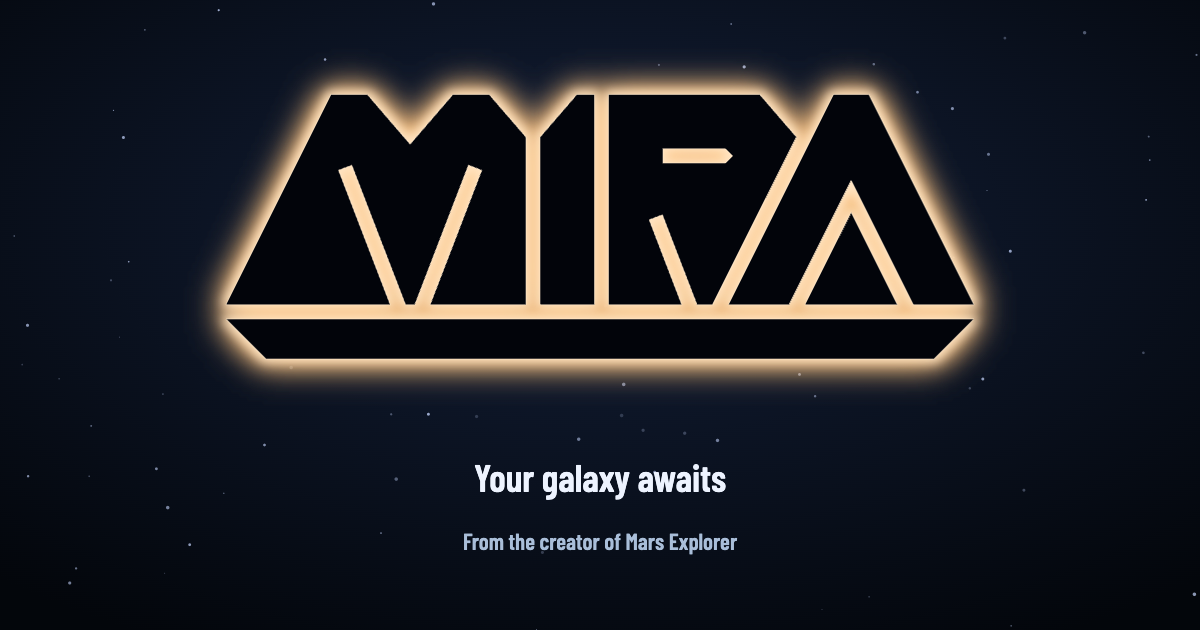
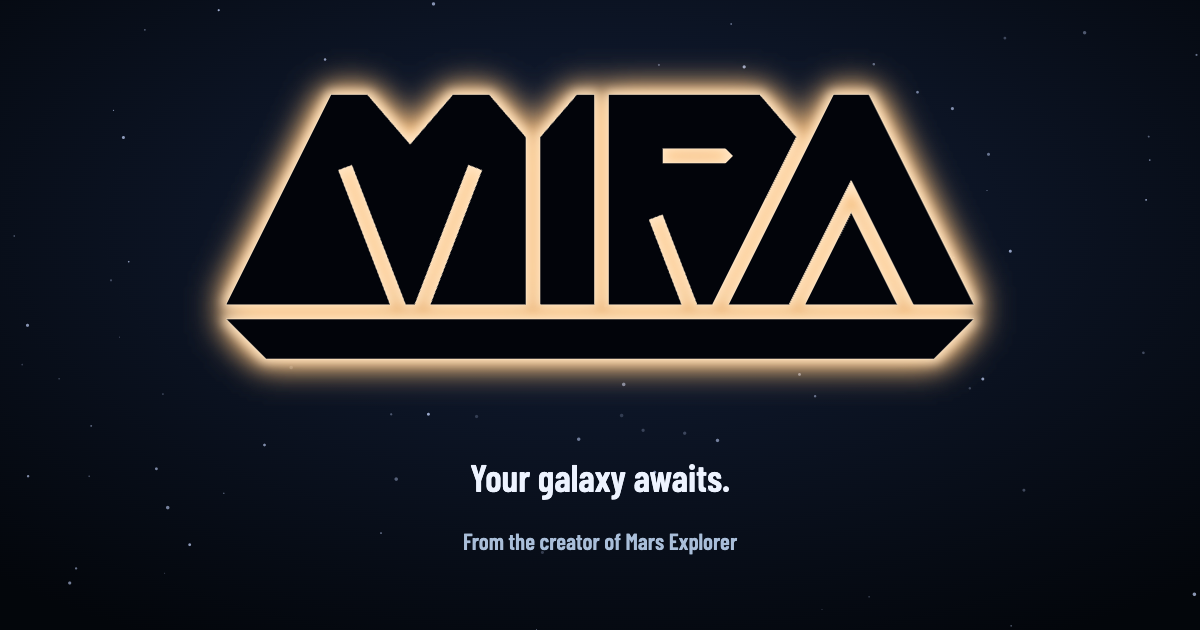
Share card tagline: Your galaxy awaits.

Changed region(s): [[0.37, 0.7238, 0.6167, 0.7841]]

diff --git a/tools/brand/generate.ts b/tools/brand/generate.ts
@@ -33,7 +33,7 @@ try {
         const face = new FontFace('Syn3h', `url(data:font/woff2;base64,${font})`)
         await face.load(); document.fonts.add(face)
         ctx.textAlign = 'center'; ctx.fillStyle = '#edf3ff'; ctx.font = '38px Syn3h'
-        ctx.fillText('Your galaxy awaits', width / 2, 492)
+        ctx.fillText('Your galaxy awaits.', width / 2, 492)
         ctx.fillStyle = '#a9bed9'; ctx.font = '23px Syn3h'
         ctx.fillText('From the creator of Mars Explorer', width / 2, 550)
       }
